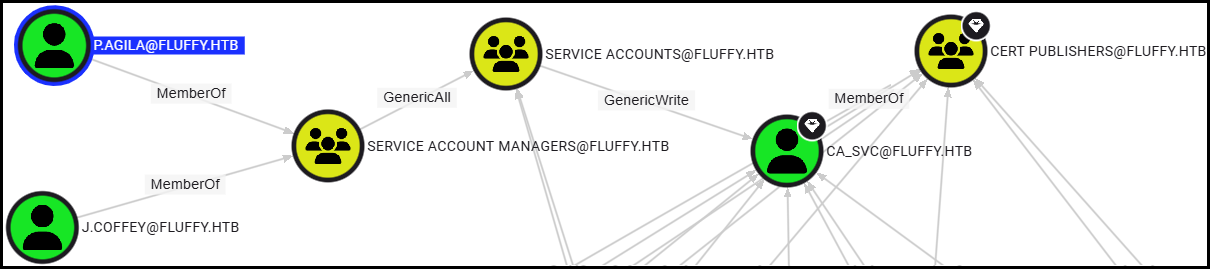
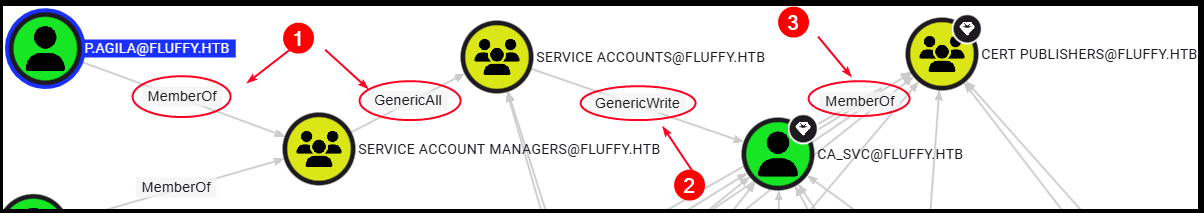
GITBOOK-777: No subject

diff --git a/Pentest Journeys/boxes/easy/fluffy.md b/Pentest Journeys/boxes/easy/fluffy.md
@@ -157,13 +157,11 @@ We then attempt to crack this hash offline:
 
 {% code overflow="wrap" %}
 ```bash
-bashCopyEdit$ hashcat -m5600 p.agila_hash /usr/share/wordlists/rockyou.txt -r /usr/share/hashcat/rules/best64.rule --force
+$ hashcat -m5600 p.agila_hash /usr/share/wordlists/rockyou.txt -r /usr/share/hashcat/rules/best64.rule --force
 ...
 P.AGILA::FLUFFY:c34...000:prometheusx-303
 ```
 {% endcode %}
-
-
 
 To map domain relationships and potential privilege escalation paths, we collect comprehensive domain data using BloodHound enumeration:
 
@@ -182,22 +180,29 @@ Analyzing the domain data with BloodHound gives us a potential PE vector:
 
 {% stepper %}
 {% step %}
-`p.agila` → `Service Account Managers` member\
+`p.agila` → `Service Account Managers` member
+
 `Service Account Managers` → `GenericAll` over `Service Accounts`&#x20;
 
+{% hint style="success" %}
 `p.agila` can add itself to `Service Accounts`
+{% endhint %}
 {% endstep %}
 
 {% step %}
 `Service Accounts` → `GenericWrite` over `ca_svc`
 
-Member of this group, in this case `p.agila`, can modify `ca_svc`'s attributes, including the `msDS-KeyCredentialLink` attribute ([Shadow Credentials](../../tl-dr/active-directory/attacks/adcs.md#shadow-credentials) attack).
+{% hint style="success" %}
+Member of this group, in this case `p.agila`, can modify `ca_svc`'s attributes, including the `msDS-KeyCredentialLink` attribute ([Shadow Credentials](../../tl-dr/active-directory/attacks/adcs.md#shadow-credentials) attack)
+{% endhint %}
 {% endstep %}
 
 {% step %}
 `ca_svc` → [`Cert Publishers`](../../tl-dr/active-directory/groups/cert-publishers.md) member
 
-`Cert Publishers` memberships can often lead to [ESC attacks](../../tl-dr/active-directory/attacks/adcs.md#esc-attacks).
+{% hint style="success" %}
+`Cert Publishers` memberships can often lead to [ESC attacks](../../tl-dr/active-directory/attacks/adcs.md#esc-attacks)
+{% endhint %}
 {% endstep %}
 {% endstepper %}
 
